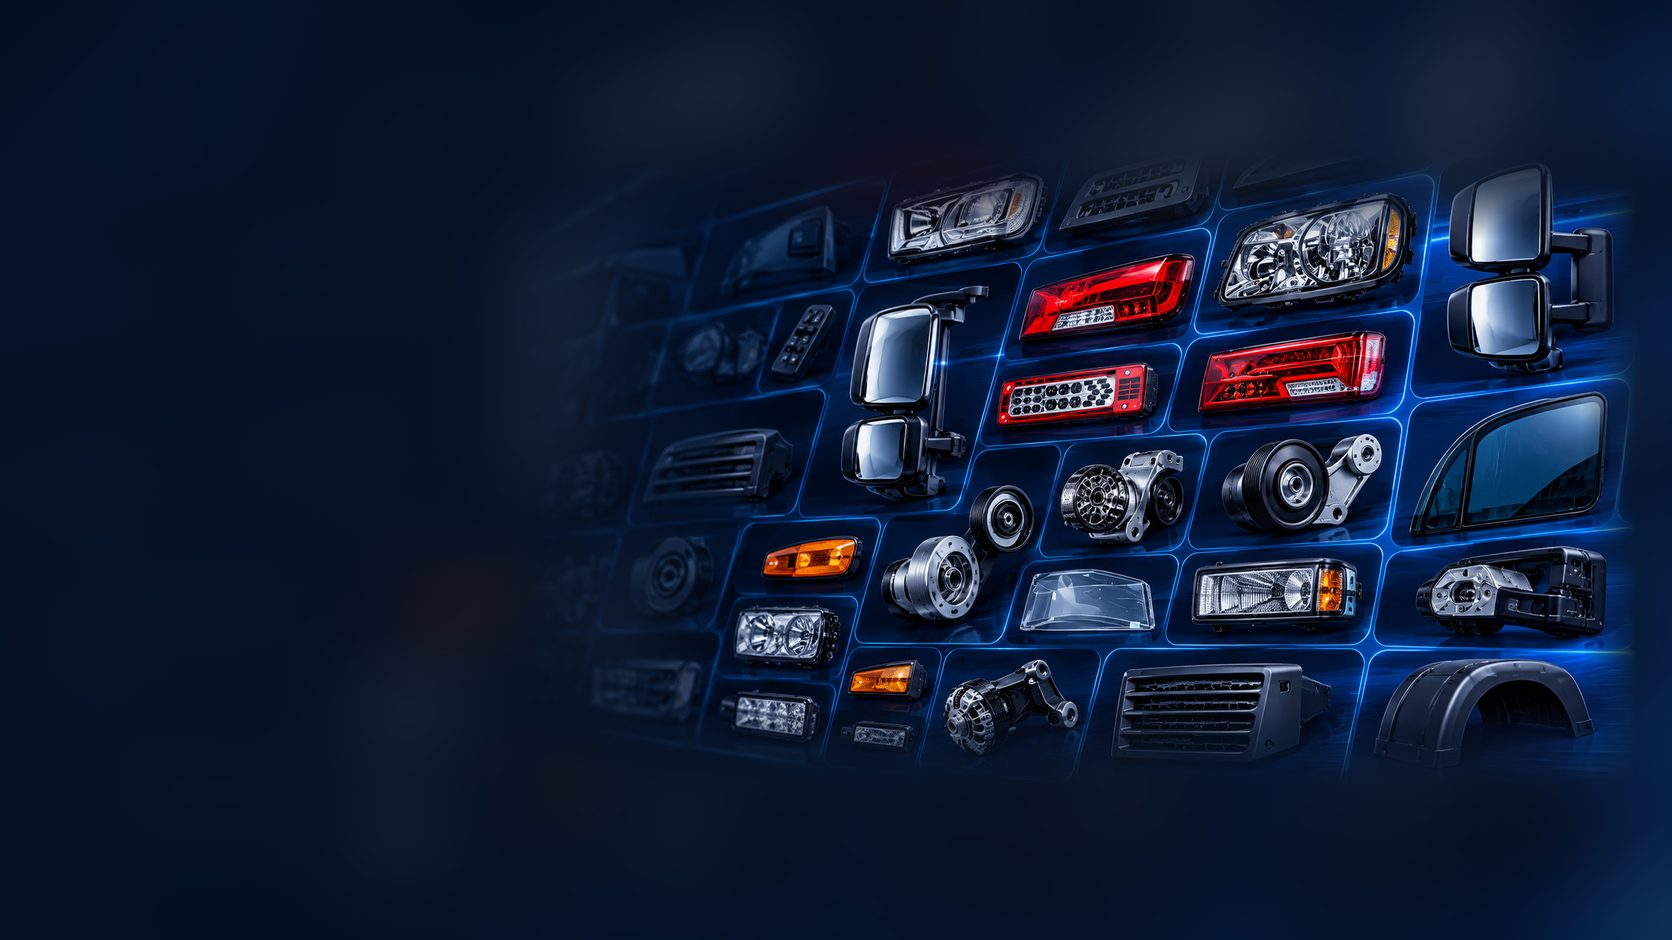
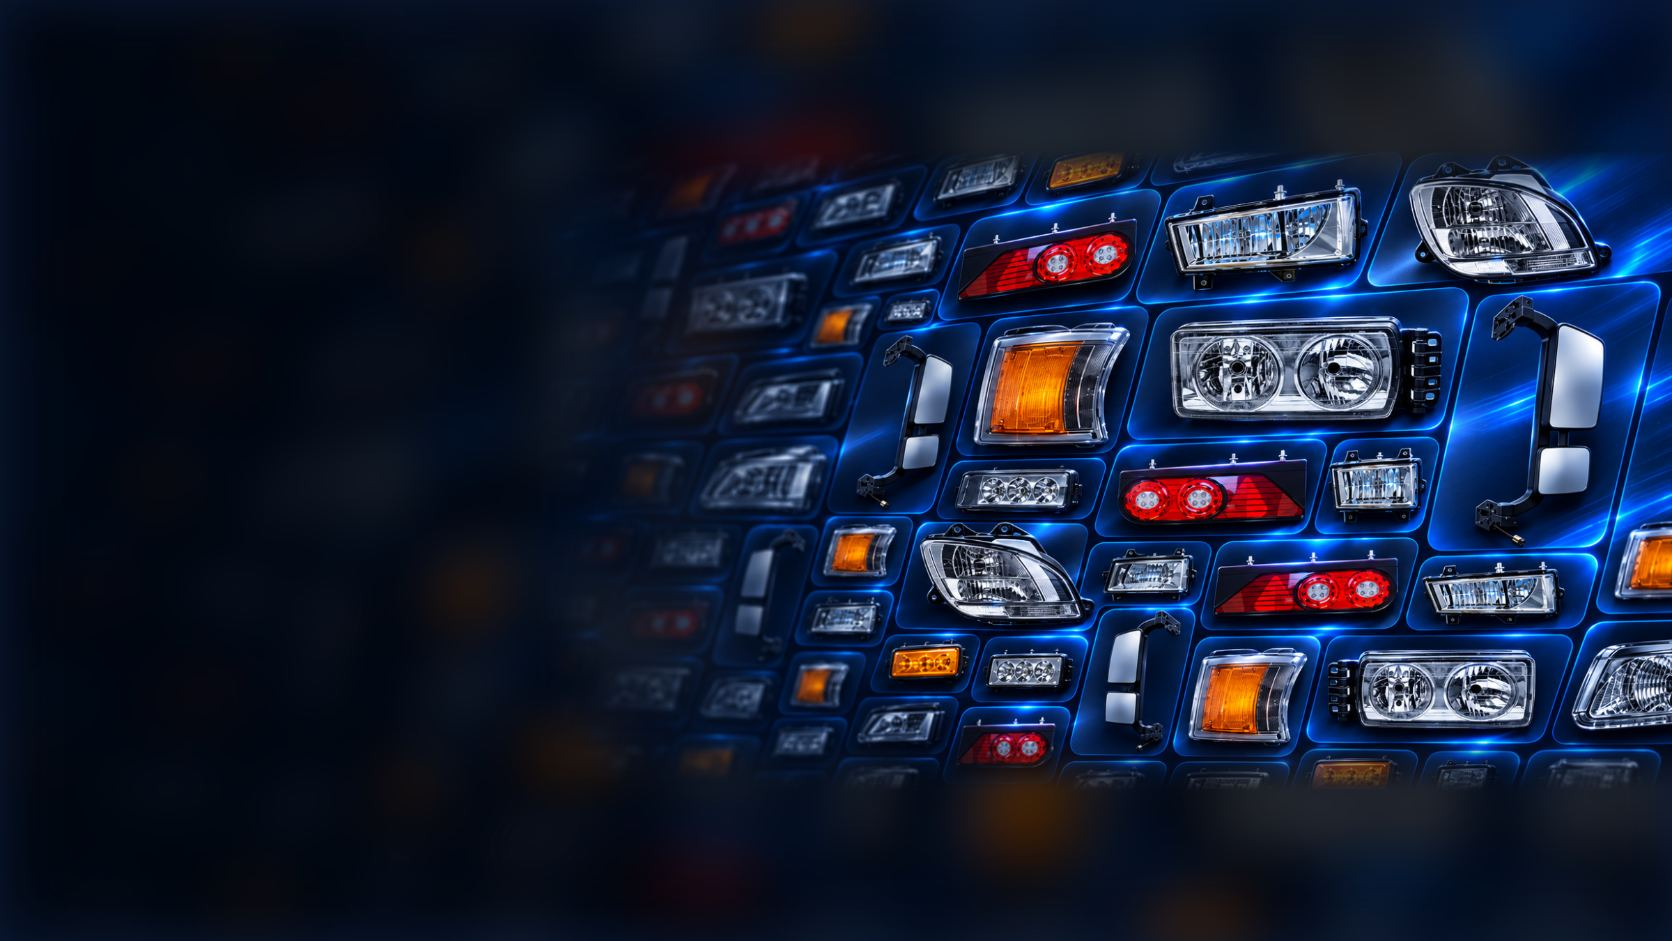
feat: hero com o mosaico neon v2, zoom out e parallax
- Novo fundo do hero (Mosaico_Neon_de_Iluminacao_Automotiva-v2), montado como o
  anterior: reduzido a 68% e ancorado à direita numa tela 2400×1350, com o resto
  preenchido pela própria imagem desfocada e escurecida; versões 800 a 2400 e o
  recorte da vitrine do celular refeitos.
- Parallax só com CSS (linha do tempo da rolagem): o fundo desce cerca de 1/3 mais
  devagar que o texto; desligado com movimento reduzido ou sem suporte.
- DEC-024 registra a imagem de origem, a montagem e o parallax.

diff --git a/frontend/src/styles/landing.css b/frontend/src/styles/landing.css
@@ -35,6 +35,25 @@
     transform: scale(var(--recuo, 1.08));
   }
 }
+/*
+ * Parallax do fundo (pedido do responsável): ao rolar, o mosaico desce mais devagar que o texto.
+ * Só CSS, com a linha do tempo da rolagem (sem JavaScript, não pesa no celular); usa a propriedade
+ * translate, separada do transform da entrada. Sem suporte ou com movimento reduzido, fica parado.
+ */
+@supports (animation-timeline: scroll()) {
+  @media (prefers-reduced-motion: no-preference) {
+    .hero__foto {
+      animation: hero-paralaxe linear both;
+      animation-timeline: scroll(root);
+      animation-range: 0 100vh;
+    }
+  }
+}
+@keyframes hero-paralaxe {
+  to {
+    translate: 0 32vh;
+  }
+}
 .hero__foto::after {
   content: '';
   position: absolute;

diff --git a/sdd_kit/99-decisions.md b/sdd_kit/99-decisions.md
@@ -395,7 +395,7 @@ autorização humana, atualização dos documentos afetados e novo registro aqui
   mosaico (peças inteiras) vira uma **vitrine nítida no topo** do hero, que desvanece para o
   marinho onde começa o título; o texto fica sobre fundo limpo e o hero tem a altura do
   conteúdo (revisão impeccable: em tela cheia o mosaico ficava ampliado e borrado atrás do
-  texto). Versões em `frontend/public/img/hero/mosaico-{800,1280,1672,2400}.jpg` (desktop) e
+  texto). Versões em `frontend/public/img/hero/mosaico-{800,1280,1672,2400}.jpg` (desktop; fonte atual: `Mosaico_Neon_de_Iluminacao_Automotiva-v2.png`, reduzida a 68 % e ancorada à direita, com parallax na rolagem) e
   `vitrine-{640,960}.jpg` (celular), com preload por `media` no `index.html`.
 - **Alcance:** vale só para o hero (confirmado pelo responsável). O topo do catálogo e os
   cartões de categoria seguem com a foto do caminhão.
